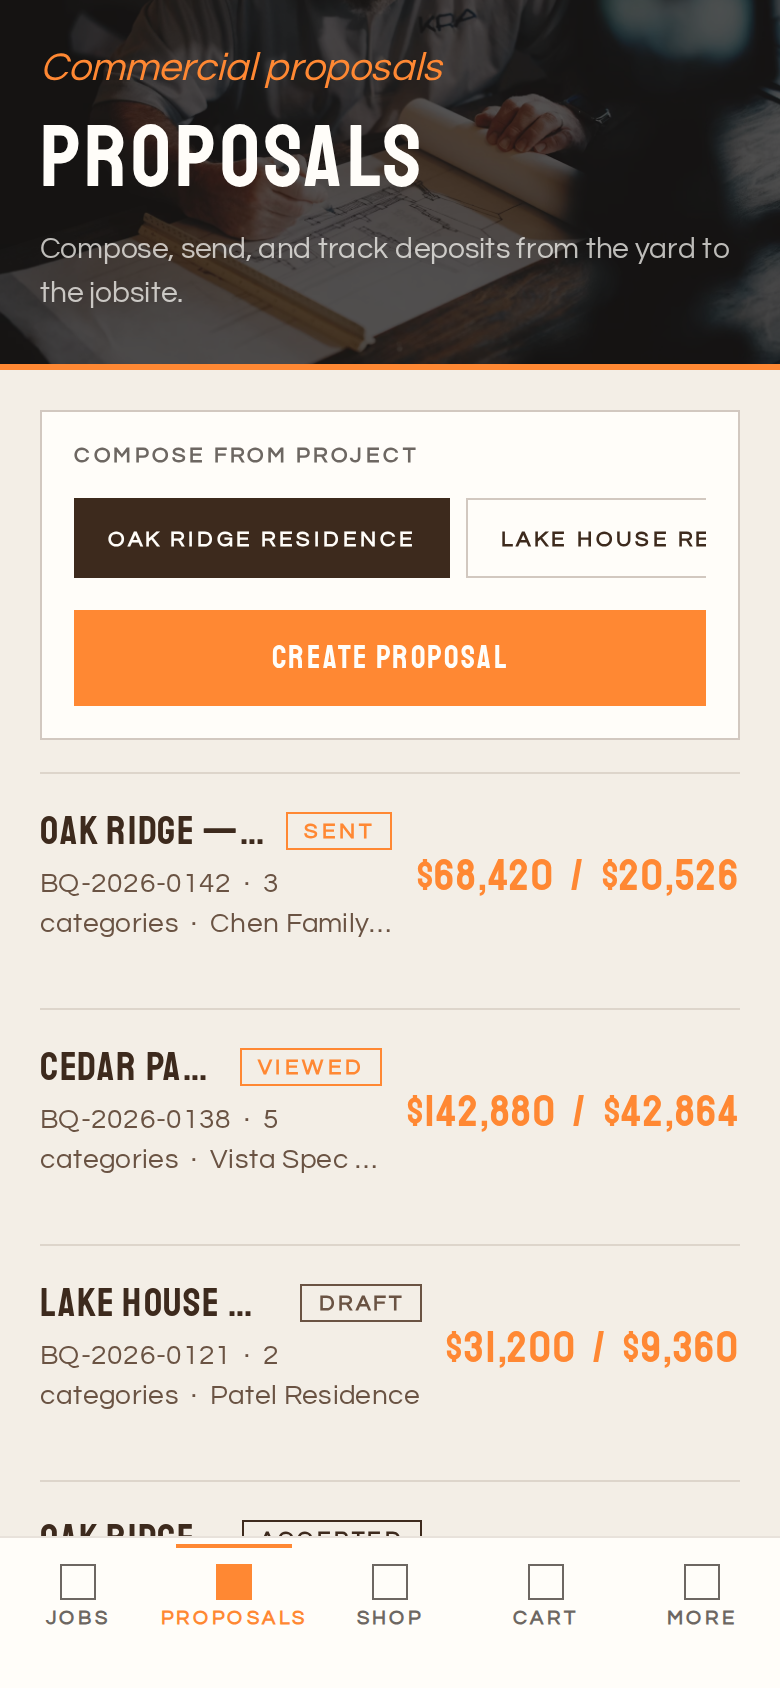
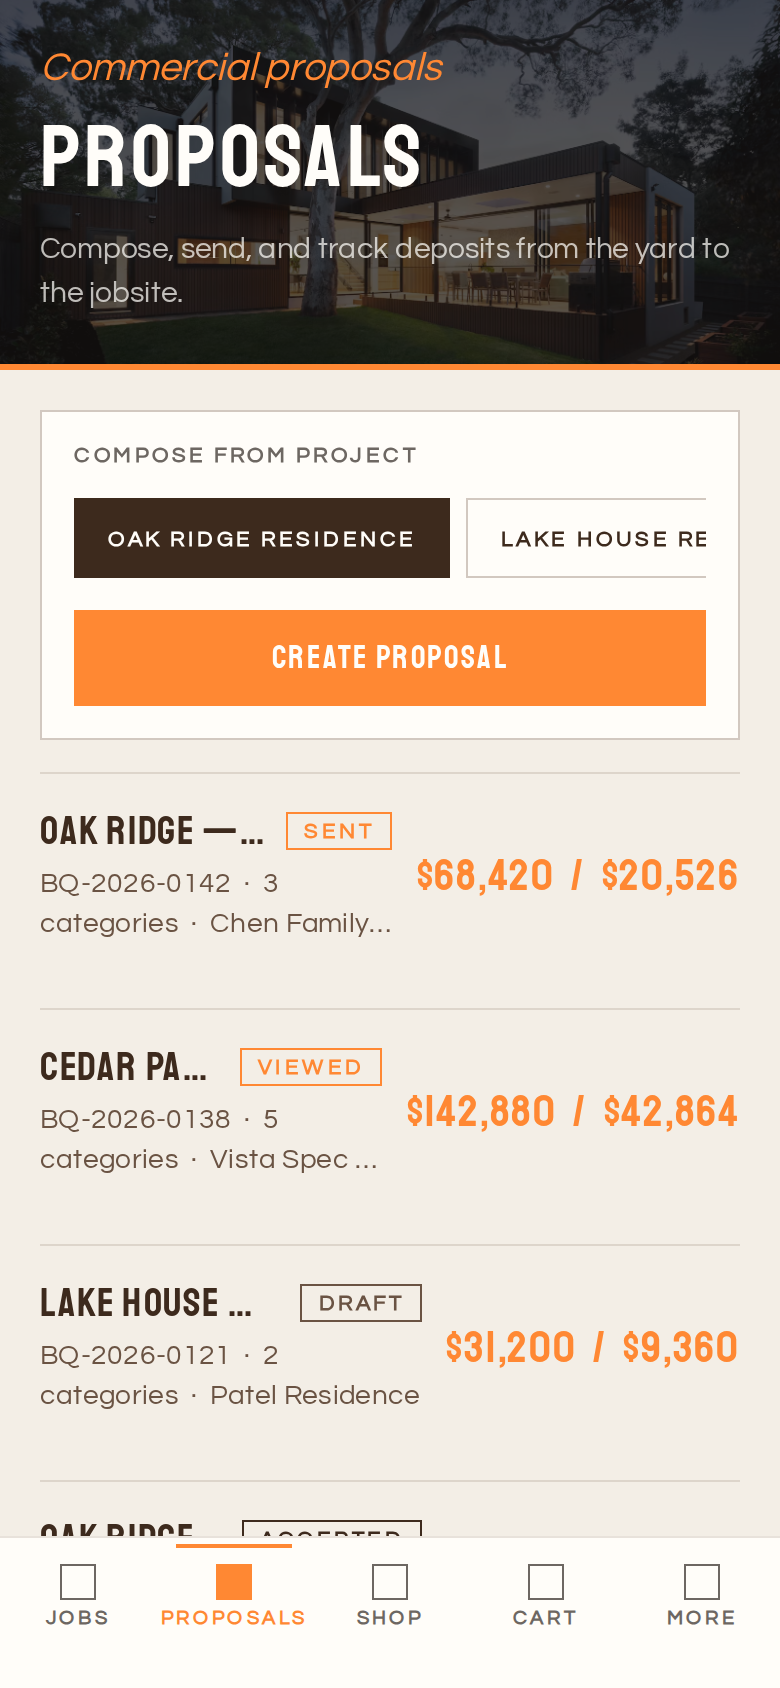
Add per-page Supply Monkey hero photography
Map distinct stock headers (framing, lumber yard, windows, cabinetry,
delivery, tools) to each mobile and web screen via shared HeroTone
tokens from @buildiq/design-tokens.

Changed region(s): [[0.0, 0.0, 1.0, 0.2156]]

diff --git a/packages/design-tokens/src/heroPhotos.ts b/packages/design-tokens/src/heroPhotos.ts
@@ -1,0 +1,86 @@
+/**
+ * Full-bleed hero photography mapped to Supply Monkey site content:
+ * lumber, trusses, doors/windows, millwork, stone, cabinetry, delivery, takeoffs.
+ */
+export type HeroTone =
+  | "jobs"
+  | "jobDetail"
+  | "proposals"
+  | "proposalDetail"
+  | "shop"
+  | "cart"
+  | "track"
+  | "orders"
+  | "account"
+  | "cabinetry"
+  | "settings"
+  | "login";
+
+const Q = "auto=format&fit=crop&w=1600&q=65";
+
+export const HERO_PHOTOS: Record<HeroTone, { uri: string; alt: string }> = {
+  /** Jobs — residential framing / active builds */
+  jobs: {
+    uri: `https://images.unsplash.com/photo-1541888946425-d81bb19240f5?${Q}`,
+    alt: "Residential framing under construction",
+  },
+  /** Job detail — plan takeoff / blueprints on the bench */
+  jobDetail: {
+    uri: `https://images.unsplash.com/photo-1503387762-592deb58ef4e?${Q}`,
+    alt: "Architectural blueprints on a workbench",
+  },
+  /** Proposals — finished home curb appeal */
+  proposals: {
+    uri: `https://images.unsplash.com/photo-1600585154340-be6161a56a0c?${Q}`,
+    alt: "Modern residential exterior",
+  },
+  /** Proposal detail — millwork / interior finish */
+  proposalDetail: {
+    uri: `https://images.unsplash.com/photo-1631679706909-1844bbd07221?${Q}`,
+    alt: "Interior millwork and finished room",
+  },
+  /** Shop — lumber yard stacks */
+  shop: {
+    uri: `https://images.unsplash.com/photo-1416331108676-a22ccb276e35?${Q}`,
+    alt: "Stacked lumber in a materials yard",
+  },
+  /** Cart — windows & door packages */
+  cart: {
+    uri: `https://images.unsplash.com/photo-1513694203232-719a280e022f?${Q}`,
+    alt: "Window and door materials ready for install",
+  },
+  /** Track — warehouse / yard pull logistics */
+  track: {
+    uri: `https://images.unsplash.com/photo-1586528116311-ad8dd3c8310d?${Q}`,
+    alt: "Materials warehouse ready for delivery",
+  },
+  /** Orders — delivery / fulfillment */
+  orders: {
+    uri: `https://images.unsplash.com/photo-1589939705384-5185137a7f0f?${Q}`,
+    alt: "Building materials staged for jobsite delivery",
+  },
+  /** Account / More — contractor tools */
+  account: {
+    uri: `https://images.unsplash.com/photo-1504328345606-18bbc8c9d7d1?${Q}`,
+    alt: "Jobsite tools and hardware",
+  },
+  /** Cabinetry — kitchen cabinetry showroom feel */
+  cabinetry: {
+    uri: `https://images.unsplash.com/photo-1556912173-46c336c7fd55?${Q}`,
+    alt: "Custom kitchen cabinetry",
+  },
+  /** Settings — office / estimating desk */
+  settings: {
+    uri: `https://images.unsplash.com/photo-1497366216548-37526070297c?${Q}`,
+    alt: "Estimating office workspace",
+  },
+  /** Login — specialty hardwood / lumber corridor */
+  login: {
+    uri: `https://images.unsplash.com/photo-1449844908441-8829872d2607?${Q}`,
+    alt: "Lumber stacks in a supply yard",
+  },
+};
+
+export function heroPhoto(tone: HeroTone = "jobs") {
+  return HERO_PHOTOS[tone];
+}

diff --git a/apps/mobile/src/ui/HeroBand.tsx b/apps/mobile/src/ui/HeroBand.tsx
@@ -1,35 +1,38 @@
 import React, { type ReactNode } from "react";
 import { Text, View, type StyleProp, type ViewStyle } from "react-native";
 import { Image } from "expo-image";
+import { heroPhoto, type HeroTone } from "@buildiq/design-tokens";
 import { useTheme } from "./ThemeContext";
-
-/** Warm lumber stack — desaturated yard photo for Millwork Studio heroes. */
-export const HERO_LUMBER_URI =
-  "https://images.unsplash.com/photo-1503387762-592deb58ef4e?auto=format&fit=crop&w=1600&q=60";
 
 type HeroBandProps = {
   eyebrow: string;
   title: string;
   supporting?: string;
   action?: ReactNode;
+  /** Theme photo matched to Supply Monkey site content */
+  tone?: HeroTone;
   /** Full-bleed photo behind scrim. Defaults on. */
   showPhoto?: boolean;
+  /** Override URI when needed */
   imageUri?: string;
   style?: StyleProp<ViewStyle>;
 };
 
-/** Dark hero band with optional lumber photo, scrim, and orange 3px rule. */
+/** Dark hero band with page-specific stock photo, scrim, and orange 3px rule. */
 export function HeroBand({
   eyebrow,
   title,
   supporting,
   action,
+  tone = "jobs",
   showPhoto = true,
-  imageUri = HERO_LUMBER_URI,
+  imageUri,
   style,
 }: HeroBandProps) {
   const { theme, gutter } = useTheme();
   const base = theme.mode === "dark" ? theme.colors.inverseLift : "#161412";
+  const photo = heroPhoto(tone);
+  const uri = imageUri ?? photo.uri;
 
   return (
     <View
@@ -48,11 +51,12 @@ export function HeroBand({
     >
       {showPhoto ? (
         <Image
-          source={{ uri: imageUri }}
+          source={{ uri }}
           style={{ position: "absolute", top: 0, right: 0, bottom: 0, left: 0 }}
           contentFit="cover"
           transition={theme.motion.enter as number}
           accessibilityIgnoresInvertColors
+          accessibilityLabel={photo.alt}
         />
       ) : null}
       <View

diff --git a/apps/web/components/HeroBand.tsx b/apps/web/components/HeroBand.tsx
@@ -1,16 +1,34 @@
-import type { ReactNode } from "react";
+import type { CSSProperties, ReactNode } from "react";
+import { heroPhoto, type HeroTone } from "@buildiq/design-tokens";
 
 export interface HeroBandProps {
   eyebrow: string;
   title: string;
   support?: string;
   actions?: ReactNode;
+  /** Theme photo matched to Supply Monkey site content */
+  tone?: HeroTone;
+  imageUri?: string;
 }
 
-export function HeroBand({ eyebrow, title, support, actions }: HeroBandProps) {
+export function HeroBand({
+  eyebrow,
+  title,
+  support,
+  actions,
+  tone = "jobs",
+  imageUri,
+}: HeroBandProps) {
+  const photo = heroPhoto(tone);
+  const uri = imageUri ?? photo.uri;
+  const bgStyle = {
+    ["--bq-hero-image" as string]: `url("${uri}")`,
+  } as CSSProperties;
+
   return (
     <header className="bq-hero" aria-label={title}>
-      <div className="bq-hero-bg" aria-hidden="true" />
+      <div className="bq-hero-bg" style={bgStyle} aria-hidden="true" />
+      <span className="sr-only">{photo.alt}</span>
       <div className="bq-hero-inner">
         <div className="bq-hero-copy">
           <p className="bq-hand">{eyebrow}</p>

diff --git a/apps/web/app/globals.css b/apps/web/app/globals.css
@@ -246,8 +246,20 @@ img {
   inset: 0;
   background:
     linear-gradient(105deg, rgba(22, 20, 18, 0.88) 0%, rgba(22, 20, 18, 0.68) 48%, rgba(34, 30, 27, 0.5) 100%),
-    url("https://images.unsplash.com/photo-1503387762-592deb58ef4e?auto=format&fit=crop&w=1600&q=60")
+    var(--bq-hero-image, url("https://images.unsplash.com/photo-1541888946425-d81bb19240f5?auto=format&fit=crop&w=1600&q=65"))
       center / cover no-repeat;
+}
+
+.sr-only {
+  position: absolute;
+  width: 1px;
+  height: 1px;
+  padding: 0;
+  margin: -1px;
+  overflow: hidden;
+  clip: rect(0, 0, 0, 0);
+  white-space: nowrap;
+  border: 0;
 }
 
 .bq-hero-inner {
@@ -781,7 +793,7 @@ img {
   min-height: 280px;
   background:
     linear-gradient(160deg, rgba(22, 20, 18, 0.82), rgba(22, 20, 18, 0.55)),
-    url("https://images.unsplash.com/photo-1503387762-592deb58ef4e?auto=format&fit=crop&w=1600&q=60")
+    url("https://images.unsplash.com/photo-1449844908441-8829872d2607?auto=format&fit=crop&w=1600&q=65")
       center / cover no-repeat;
   border-right: 3px solid var(--bq-accent-primary);
   color: var(--bq-text-inverse);

diff --git a/packages/design-tokens/scripts/build.ts b/packages/design-tokens/scripts/build.ts
@@ -46,6 +46,21 @@ export declare function nativeTheme(mode?: ColorMode): {
 };
 export type NativeTheme = ReturnType<typeof nativeTheme>;
 export declare function cssVariables(mode?: ColorMode): string;
+export type HeroTone =
+  | "jobs"
+  | "jobDetail"
+  | "proposals"
+  | "proposalDetail"
+  | "shop"
+  | "cart"
+  | "track"
+  | "orders"
+  | "account"
+  | "cabinetry"
+  | "settings"
+  | "login";
+export declare const HERO_PHOTOS: Record<HeroTone, { uri: string; alt: string }>;
+export declare function heroPhoto(tone?: HeroTone): { uri: string; alt: string };
 `
 );
 

diff --git a/apps/mobile/app/(tabs)/track.tsx b/apps/mobile/app/(tabs)/track.tsx
@@ -57,6 +57,7 @@ export default function TrackScreen() {
     return (
       <Screen edges={["top", "left", "right"]}>
         <HeroBand
+          tone="track"
           eyebrow="Delivery"
           title="Track"
           supporting="Yard pull through jobsite delivery for open orders."
@@ -81,6 +82,7 @@ export default function TrackScreen() {
         showsVerticalScrollIndicator={false}
       >
         <HeroBand
+          tone="track"
           eyebrow="Delivery"
           title="Track"
           supporting="Yard pull through jobsite delivery for open orders."

diff --git a/apps/web/app/(dashboard)/jobs/[id]/page.tsx b/apps/web/app/(dashboard)/jobs/[id]/page.tsx
@@ -38,6 +38,7 @@ export default async function JobDetailPage({ params }: Props) {
   return (
     <>
       <HeroBand
+        tone="jobDetail"
         eyebrow={formatAddress(project.address, project.city, project.state)}
         title={project.name}
         support={`${formatSf(project.squareFeet)} · ${project.stories} stor${project.stories === 1 ? "y" : "ies"}`}

diff --git a/apps/mobile/app/(tabs)/proposals/[id].tsx b/apps/mobile/app/(tabs)/proposals/[id].tsx
@@ -67,6 +67,7 @@ export default function ProposalDetailScreen() {
         </Pressable>
 
         <HeroBand
+          tone="proposalDetail"
           eyebrow={proposal.number}
           title={proposal.title}
           supporting={`${formatCurrency(proposal.grandTotal)} total  ·  ${formatCurrency(deposit)} deposit (${Math.round(proposal.depositPct * 100)}%)`}

diff --git a/apps/mobile/app/(tabs)/proposals/index.tsx b/apps/mobile/app/(tabs)/proposals/index.tsx
@@ -64,6 +64,7 @@ export default function ProposalsScreen() {
         showsVerticalScrollIndicator={false}
       >
         <HeroBand
+          tone="proposals"
           eyebrow="Commercial proposals"
           title="Proposals"
           supporting="Compose, send, and track deposits from the yard to the jobsite."

diff --git a/apps/mobile/app/(tabs)/jobs/index.tsx b/apps/mobile/app/(tabs)/jobs/index.tsx
@@ -177,6 +177,7 @@ export default function JobsScreen() {
         showsVerticalScrollIndicator={false}
       >
         <HeroBand
+          tone="jobs"
           eyebrow={session?.companyName ?? "Supply Monkey"}
           title="Jobs"
           supporting="Estimates, takeoffs, and bids for every active project."

diff --git a/packages/design-tokens/src/index.ts b/packages/design-tokens/src/index.ts
@@ -60,3 +60,7 @@ export function cssVariables(mode: ColorMode = "light") {
   lines.push(`  --bq-motion-ease: ${tokens.motion.easing};`);
   return `:root, [data-theme="${mode}"] {\n${lines.join("\n")}\n}\n`;
 }
+
+export { HERO_PHOTOS, heroPhoto } from "./heroPhotos";
+export type { HeroTone } from "./heroPhotos";
+

diff --git a/apps/mobile/app/(tabs)/shop.tsx b/apps/mobile/app/(tabs)/shop.tsx
@@ -54,6 +54,7 @@ export default function ShopScreen() {
         showsVerticalScrollIndicator={false}
       >
         <HeroBand
+          tone="shop"
           eyebrow="Supply Monkey yard"
           title="Material packages"
           supporting="Curated bundles ready for estimate attach and checkout."
